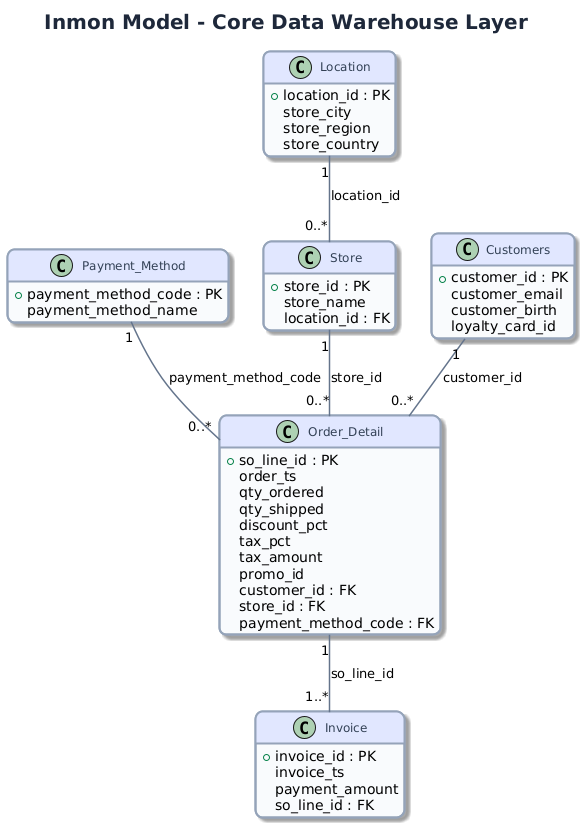
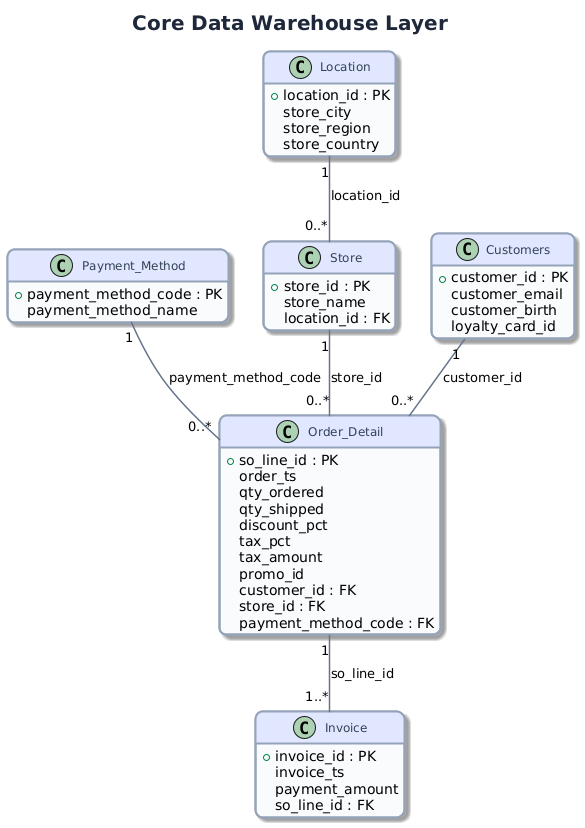
erased inmon

Changed region(s): [[0.0615, 0.0, 0.8923, 0.0604]]

diff --git a/src/App.jsx b/src/App.jsx
@@ -433,7 +433,7 @@ Order_Detail "1" -- "1..*" Invoice : so_line_id
             onClick={() => setCurrentPage('inmon')}
             className={`px-6 py-3 rounded-lg font-semibold transition-all ${currentPage === 'inmon' ? 'bg-slate-700 text-white shadow-lg' : 'bg-white text-gray-700 hover:bg-gray-100 shadow'}`}
           >
-            🧬 Datový model (Inmon)
+            🧬 Datový model
           </button>
           {/* ZMĚNA: Přidáno tlačítko pro Data Vault */}
           <button
